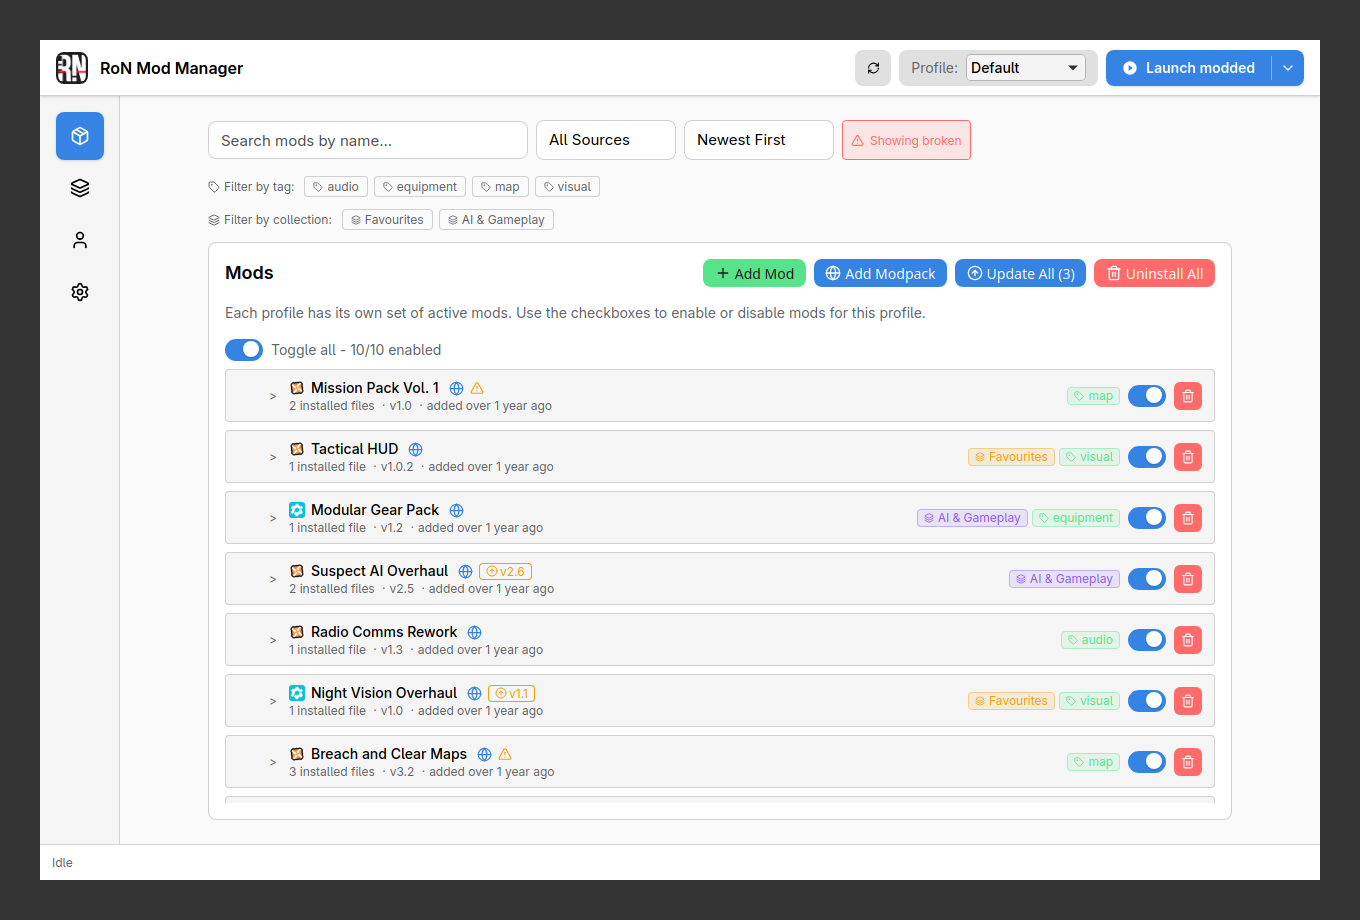
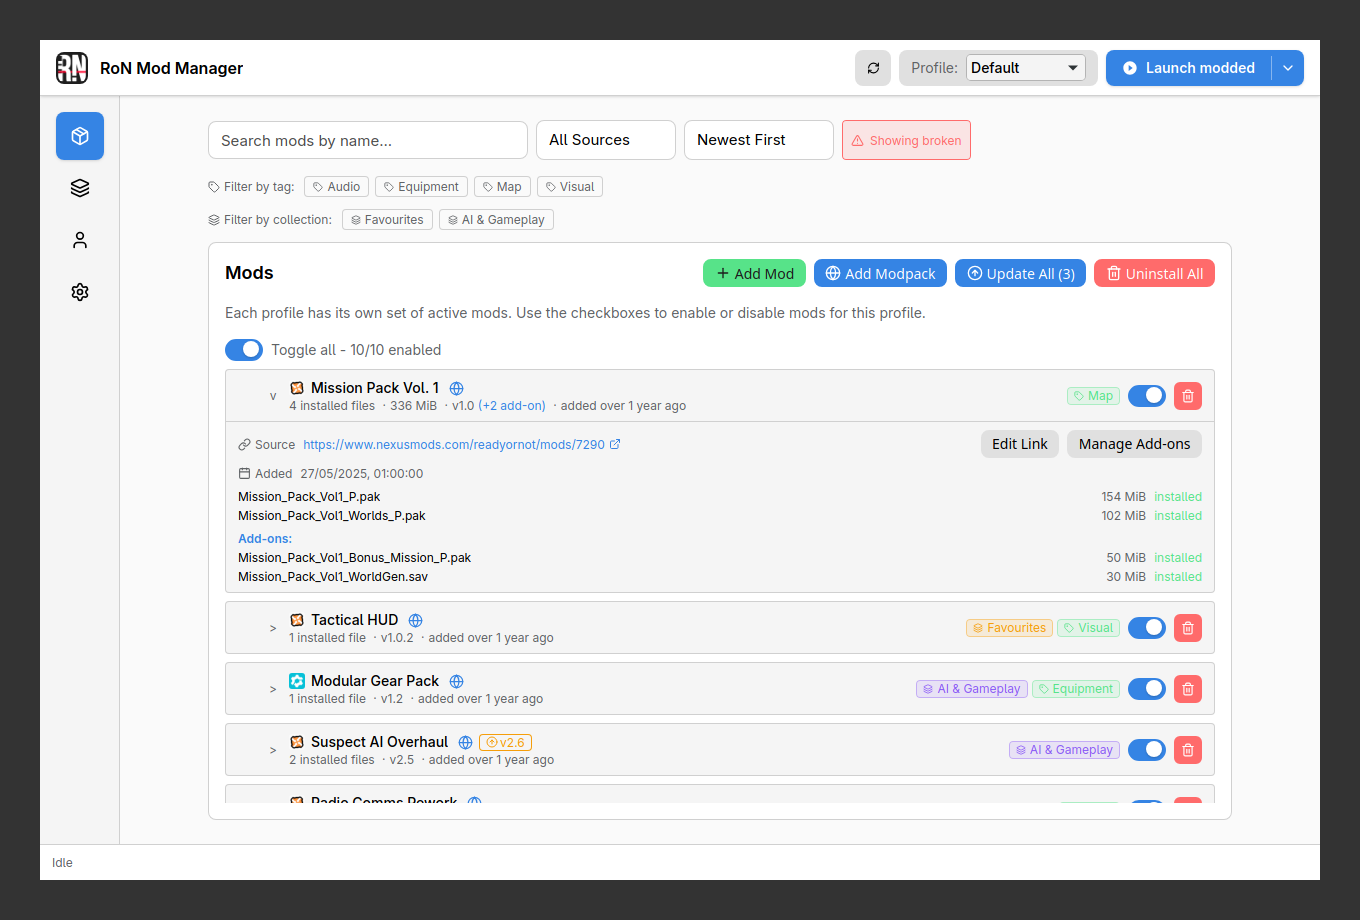
Show expanded Mission Pack Vol. 1 with add-ons in screenshots
- Move Mission Pack Vol. 1 first in incognito dummy data with add-on
  files (incl. worldgen .sav) and auto-expand it in incognito mode so
  mods.png captures the expanded add-ons view
- Suppress app update check in screenshot/wizard-screenshot mode
- Render tag names upper-first (keys stay lowercase internally)

Changed region(s): [[0.1544, 0.4261, 0.8956, 0.8826], [0.2471, 0.1826, 0.4324, 0.213]]

diff --git a/src/routes/mods/+page.svelte b/src/routes/mods/+page.svelte
@@ -386,6 +386,12 @@
   }
   let isApplyingProfile = false;
   let expandedGroups: Record<string, boolean> = {};
+  // In incognito/screenshot mode the first dummy mod (Mission Pack Vol. 1,
+  // which carries add-ons including worldgen data) starts expanded so
+  // screenshots show the expanded view with add-ons.
+  $: if ($incognitoMode && !expandedGroups["Mission_Pack_Vol1"]) {
+    expandedGroups = { ...expandedGroups, Mission_Pack_Vol1: true };
+  }
   let isDraggingOver = false;
   let isProcessingFiles = false;
   const pendingFileQueue: Array<{
@@ -668,6 +674,11 @@
   function focus(node: HTMLElement) {
     node.focus();
     return {};
+  }
+
+  // Display helper: tag keys stay lowercase internally, but render upper-first.
+  function formatTagName(tag: string): string {
+    return tag.length > 0 ? tag[0].toUpperCase() + tag.slice(1) : tag;
   }
 
   const DEFAULT_PROFILE_NAME = "Default";
@@ -1906,7 +1917,7 @@
           class="inline-flex items-center gap-1 rounded border px-2 py-0.5 text-xs cursor-pointer"
         >
           <Tag size={10} />
-          {tagName}
+          {formatTagName(tagName)}
         </button>
       {/each}
       {#if activeTagFilters.size > 0}
@@ -2196,7 +2207,7 @@
                         ...(await Promise.all(
                           effectiveTagNames.map((tag) =>
                             CheckMenuItem.new({
-                              text: tag,
+                              text: formatTagName(tag),
                               checked:
                                 selectedMods.size > 0
                                   ? [...selectedMods].every((m) =>
@@ -2506,10 +2517,10 @@
                             ? 100
                             : 40}%, transparent); color: var(--clr-success-300);"
                           class="inline-flex items-center gap-1 rounded border px-1.5 py-0.5 text-xs leading-none cursor-pointer"
-                          title="Filter by tag: {tag}"
+                          title="Filter by tag: {formatTagName(tag)}"
                         >
                           <Tag size={10} />
-                          {tag}
+                          {formatTagName(tag)}
                         </button>
                       {/each}
                     </div>

diff --git a/src/lib/stores/incognitoMode.ts b/src/lib/stores/incognitoMode.ts
@@ -10,6 +10,43 @@ export const wizardScreenshotMode = writable<boolean>(false);
 
 export const DUMMY_MOD_GROUPS: InstalledModGroup[] = [
   {
+    name: "Mission_Pack_Vol1",
+    displayName: "Mission Pack Vol. 1",
+    sourceUrl: "https://www.nexusmods.com/readyornot/mods/7290",
+    managedByManifest: true,
+    installedAt: 1748304000,
+    installedVersion: "1.0",
+    totalSize: 352321536,
+    files: [
+      {
+        name: "Mission_Pack_Vol1_P.pak",
+        path: "/mods/Mission_Pack_Vol1_P.pak",
+        exists: true,
+        size: 161061274,
+      },
+      {
+        name: "Mission_Pack_Vol1_Worlds_P.pak",
+        path: "/mods/Mission_Pack_Vol1_Worlds_P.pak",
+        exists: true,
+        size: 107374182,
+      },
+    ],
+    addonFiles: [
+      {
+        name: "Mission_Pack_Vol1_Bonus_Mission_P.pak",
+        path: "/mods/Mission_Pack_Vol1_Bonus_Mission_P.pak",
+        exists: true,
+        size: 52428800,
+      },
+      {
+        name: "Mission_Pack_Vol1_WorldGen.sav",
+        path: "/mods/Mission_Pack_Vol1_WorldGen.sav",
+        exists: true,
+        size: 31457280,
+      },
+    ],
+  },
+  {
     name: "CQB_Tactics_Pack",
     displayName: "CQB Tactics Pack",
     sourceUrl: "https://www.nexusmods.com/readyornot/mods/1042",
@@ -165,26 +202,6 @@ export const DUMMY_MOD_GROUPS: InstalledModGroup[] = [
       {
         name: "Tactical_HUD_P.pak",
         path: "/mods/Tactical_HUD_P.pak",
-        exists: true,
-      },
-    ],
-  },
-  {
-    name: "Mission_Pack_Vol1",
-    displayName: "Mission Pack Vol. 1",
-    sourceUrl: "https://www.nexusmods.com/readyornot/mods/7290",
-    managedByManifest: true,
-    installedAt: 1748304000,
-    installedVersion: "1.0",
-    files: [
-      {
-        name: "Mission_Pack_Vol1_P.pak",
-        path: "/mods/Mission_Pack_Vol1_P.pak",
-        exists: true,
-      },
-      {
-        name: "Mission_Pack_Vol1_Worlds_P.pak",
-        path: "/mods/Mission_Pack_Vol1_Worlds_P.pak",
         exists: true,
       },
     ],

diff --git a/src/routes/+layout.svelte b/src/routes/+layout.svelte
@@ -808,6 +808,13 @@
     });
 
     void (async () => {
+      try {
+        const [isScreenshot, isWizard] = await Promise.all([
+          screenshotModePromise.catch(() => false),
+          wizardScreenshotModePromise.catch(() => false),
+        ]);
+        if (isScreenshot || isWizard) return;
+      } catch {}
       const lastCheckedAt = $updateCheckStore;
       if (
         lastCheckedAt &&
